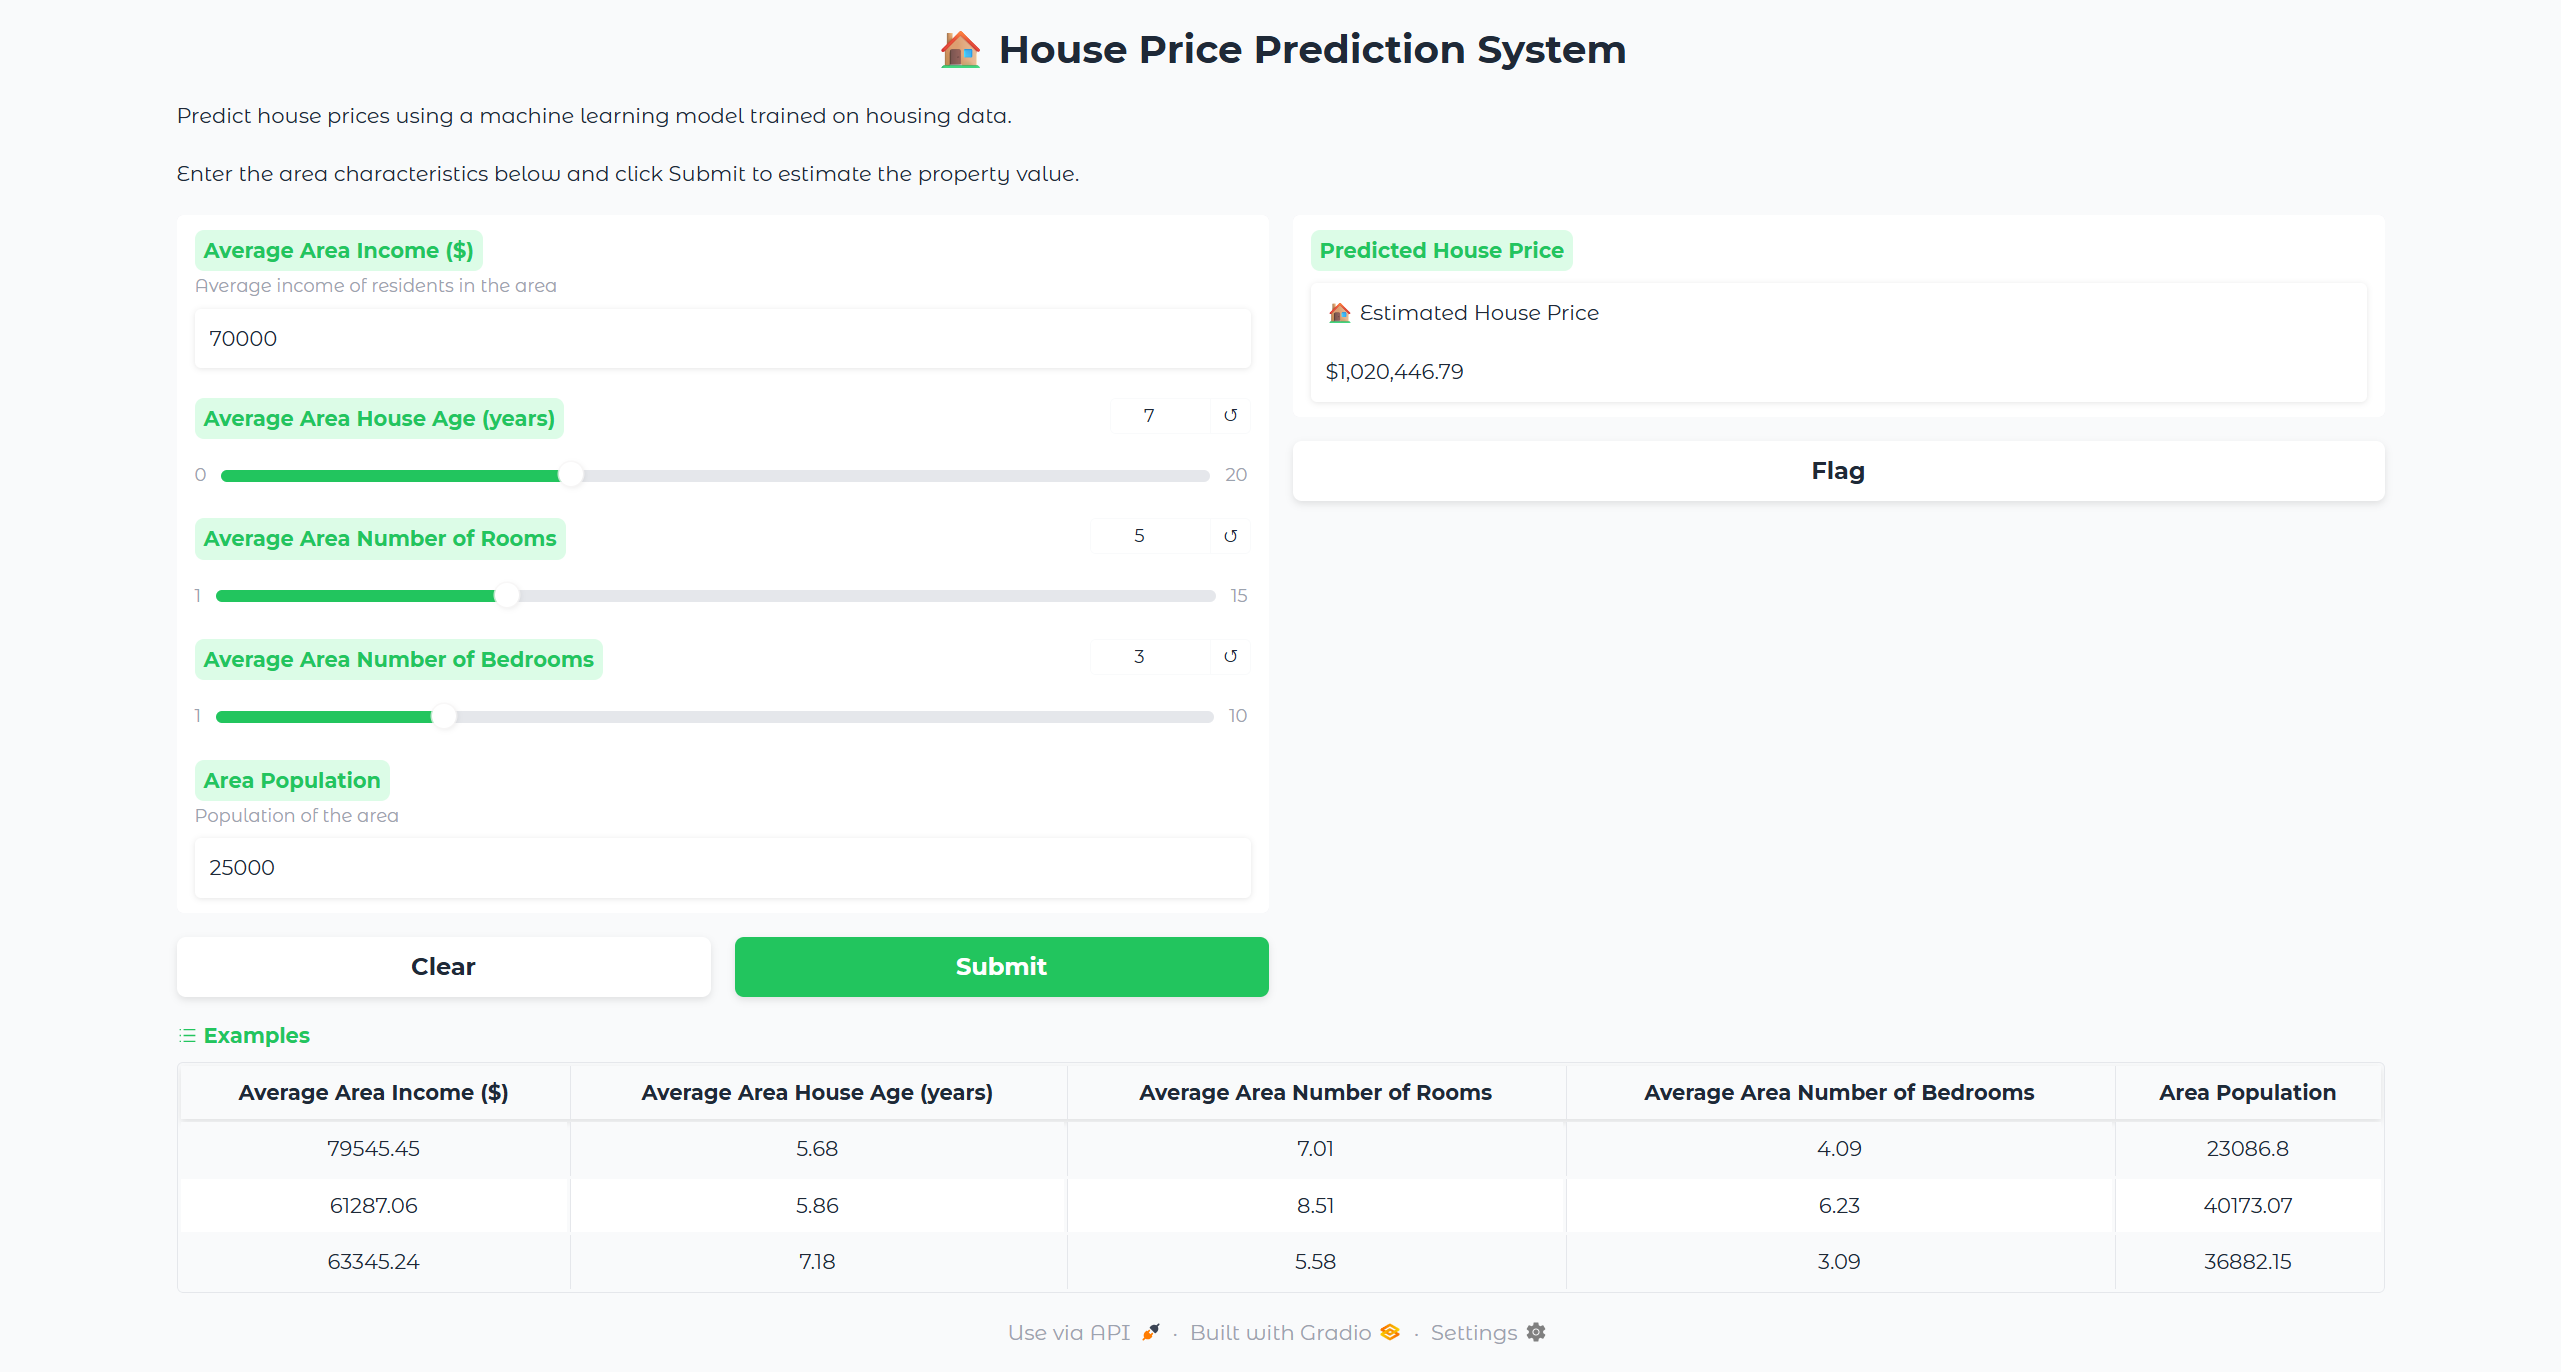
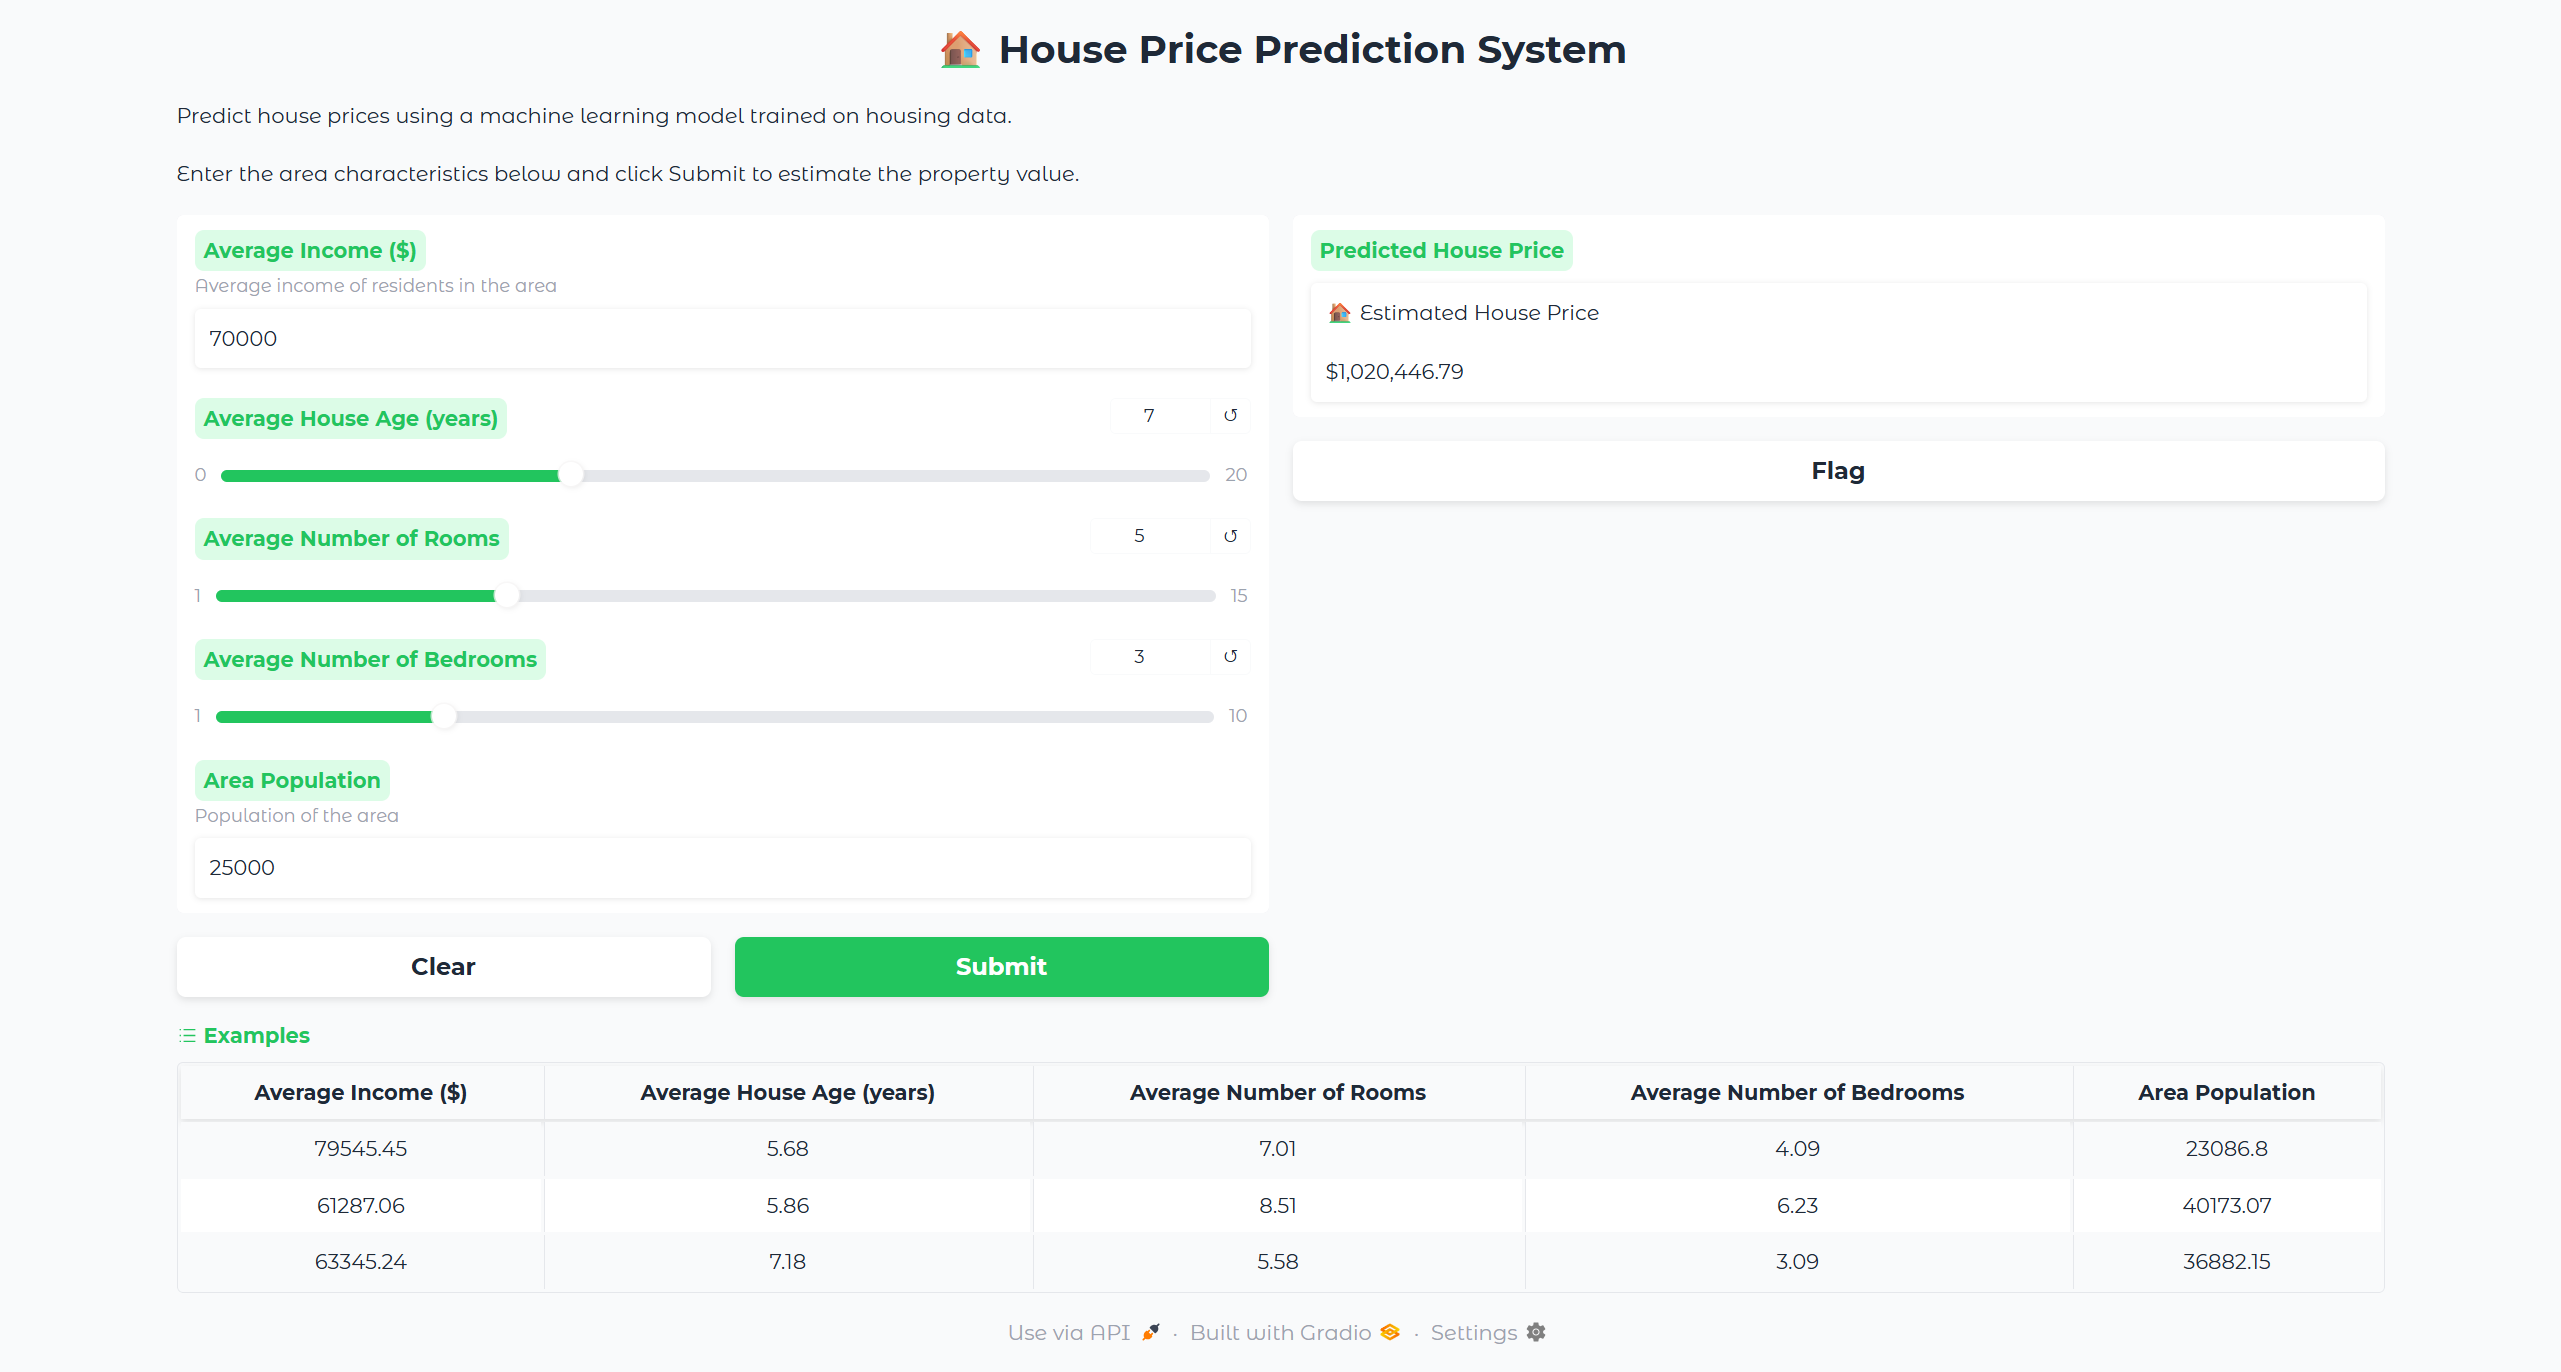
Update Interface

diff --git a/app.py b/app.py
@@ -25,26 +25,26 @@ interface = gr.Interface(
     fn=predict_house_price,
     inputs=[
         gr.Number(
-            label="Average Area Income ($)",
+            label="Average Income ($)",
             info="Average income of residents in the area",
             value=70000
         ),
         gr.Slider(
-            label="Average Area House Age (years)",
+            label="Average House Age (years)",
             minimum=0,
             maximum=20,
             step=1,
             value=7
         ),
         gr.Slider(
-            label="Average Area Number of Rooms",
+            label="Average Number of Rooms",
             minimum=1,
             maximum=15,
             step=0.5,
             value=5
         ),
         gr.Slider(
-            label="Average Area Number of Bedrooms",
+            label="Average Number of Bedrooms",
             minimum=1,
             maximum=10,
             step=0.5,